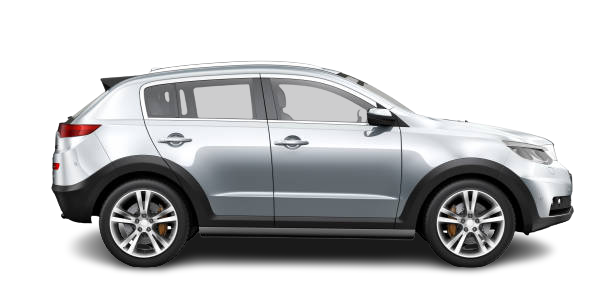
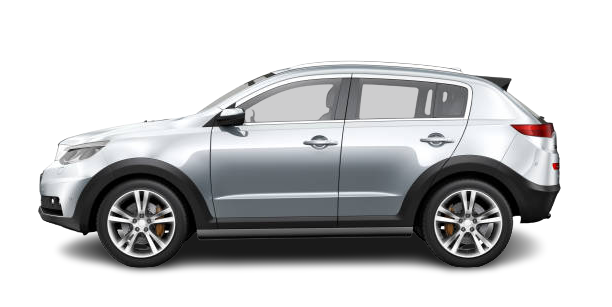
Add animation to hero img.

Changed region(s): [[0.0621, 0.1759, 0.9624, 0.8795], [0.6209, 0.8502, 0.683, 0.8795], [0.3105, 0.8502, 0.3725, 0.8795]]

diff --git a/src/css/hero.css b/src/css/hero.css
@@ -41,7 +41,29 @@
 }
 
 .hero_container img {
-  -webkit-transform: scaleX(-1);
-  transform: scaleX(-1);
   width: 60%;
+}
+
+.slide-in{
+    animation: slideMe .9s ease-in;
+}
+
+@keyframes slideMe{
+    0%{
+        transform: translateX(500px);
+    }
+    100%{
+        transform: skew(0deg);
+    }
+}
+
+@media (min-width: 900px){
+    .hero_container .slagen h1{
+        font-size: 2em;
+        font-weight: bolder;
+    }
+    
+    .hero_container .slagen span{
+        font-size: 1.5em;
+    }
 }

diff --git a/src/components/Hero.jsx b/src/components/Hero.jsx
@@ -2,7 +2,7 @@ import hero from "../assets/images/hero.png";
 export default function Hero() {
   return (
     <div className="hero_container">
-      <img src={hero} alt="" />
+      <img className="slide-in" src={hero} alt="" />
       <label className="slagen">
         <h1>Sälj Bilen Och Få Betalt Direkt!</h1>
         <span>Vi köper din bil oavsett skick.</span>
